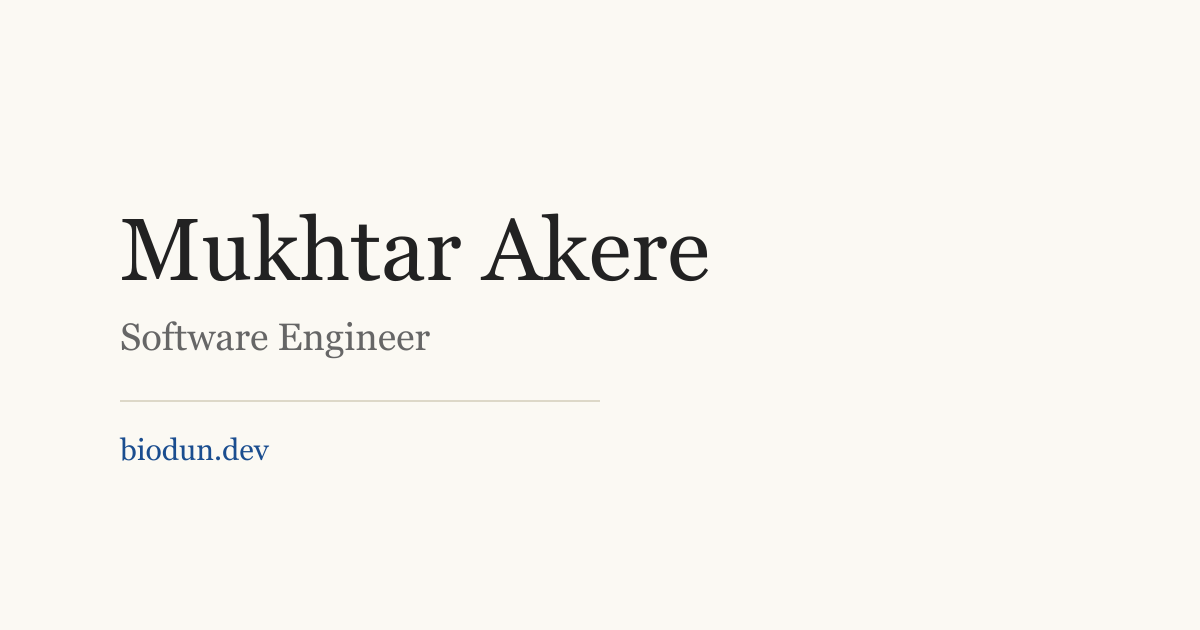
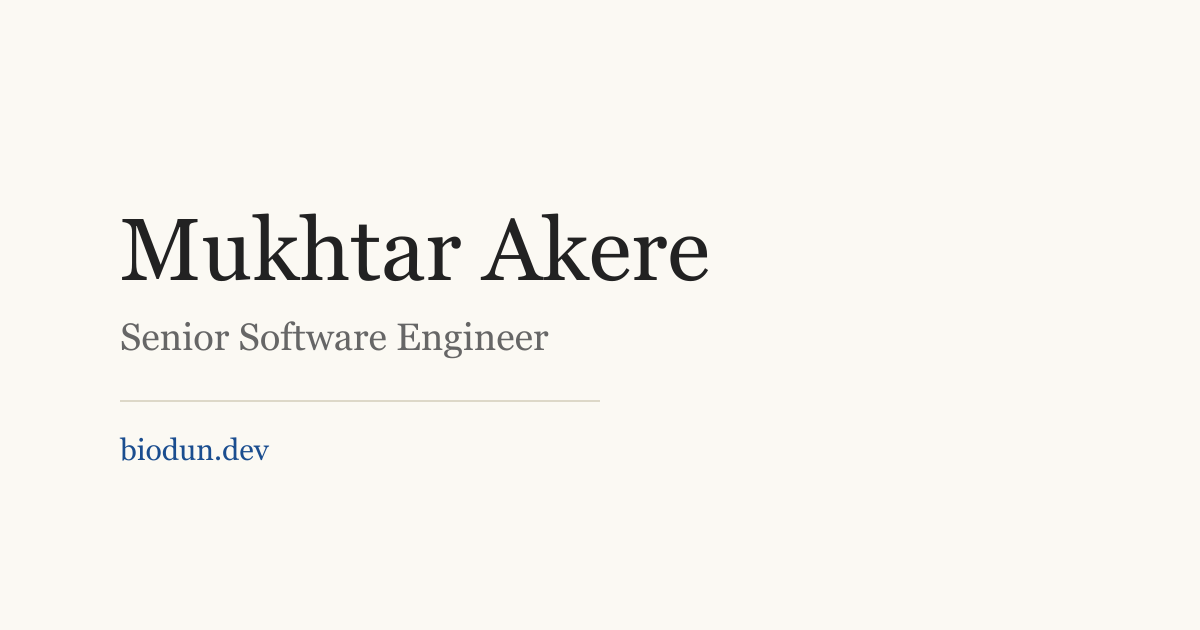
Use Senior Software Engineer in metadata

Changed region(s): [[0.1233, 0.5127, 0.4625, 0.573]]

diff --git a/index.html b/index.html
@@ -4,7 +4,7 @@
     <meta charset="utf-8">
     <meta name="viewport" content="width=device-width, initial-scale=1">
     <title>Mukhtar Akere</title>
-    <meta name="description" content="Software engineer with 8 years of experience building backend and high-performance systems in Go and Python.">
+    <meta name="description" content="Senior software engineer with 8 years of experience building backend and high-performance systems in Go and Python.">
     <meta name="author" content="Mukhtar Akere">
     <meta name="theme-color" content="#fbf9f3">
     <link rel="canonical" href="https://biodun.dev/">
@@ -12,16 +12,16 @@
     <meta property="og:type" content="website">
     <meta property="og:url" content="https://biodun.dev/">
     <meta property="og:site_name" content="biodun.dev">
-    <meta property="og:title" content="Mukhtar Akere - Software Engineer">
-    <meta property="og:description" content="Software engineer with 8 years of experience building backend and high-performance systems in Go and Python.">
+    <meta property="og:title" content="Mukhtar Akere - Senior Software Engineer">
+    <meta property="og:description" content="Senior software engineer with 8 years of experience building backend and high-performance systems in Go and Python.">
     <meta property="og:image" content="https://biodun.dev/og-image.png">
     <meta property="og:image:width" content="1200">
     <meta property="og:image:height" content="630">
-    <meta property="og:image:alt" content="Mukhtar Akere, Software Engineer">
+    <meta property="og:image:alt" content="Mukhtar Akere, Senior Software Engineer">
 
     <meta name="twitter:card" content="summary_large_image">
-    <meta name="twitter:title" content="Mukhtar Akere - Software Engineer">
-    <meta name="twitter:description" content="Software engineer with 8 years of experience building backend and high-performance systems in Go and Python.">
+    <meta name="twitter:title" content="Mukhtar Akere - Senior Software Engineer">
+    <meta name="twitter:description" content="Senior software engineer with 8 years of experience building backend and high-performance systems in Go and Python.">
     <meta name="twitter:image" content="https://biodun.dev/og-image.png">
 
     <link rel="icon" href="favicon.svg" type="image/svg+xml">
@@ -35,7 +35,7 @@
         "@type": "Person",
         "name": "Mukhtar Akere",
         "url": "https://biodun.dev/",
-        "jobTitle": "Software Engineer",
+        "jobTitle": "Senior Software Engineer",
         "email": "mailto:akeremukhtar10@gmail.com",
         "knowsAbout": ["Go", "Python", "Distributed Systems", "Backend Engineering"],
         "sameAs": [
